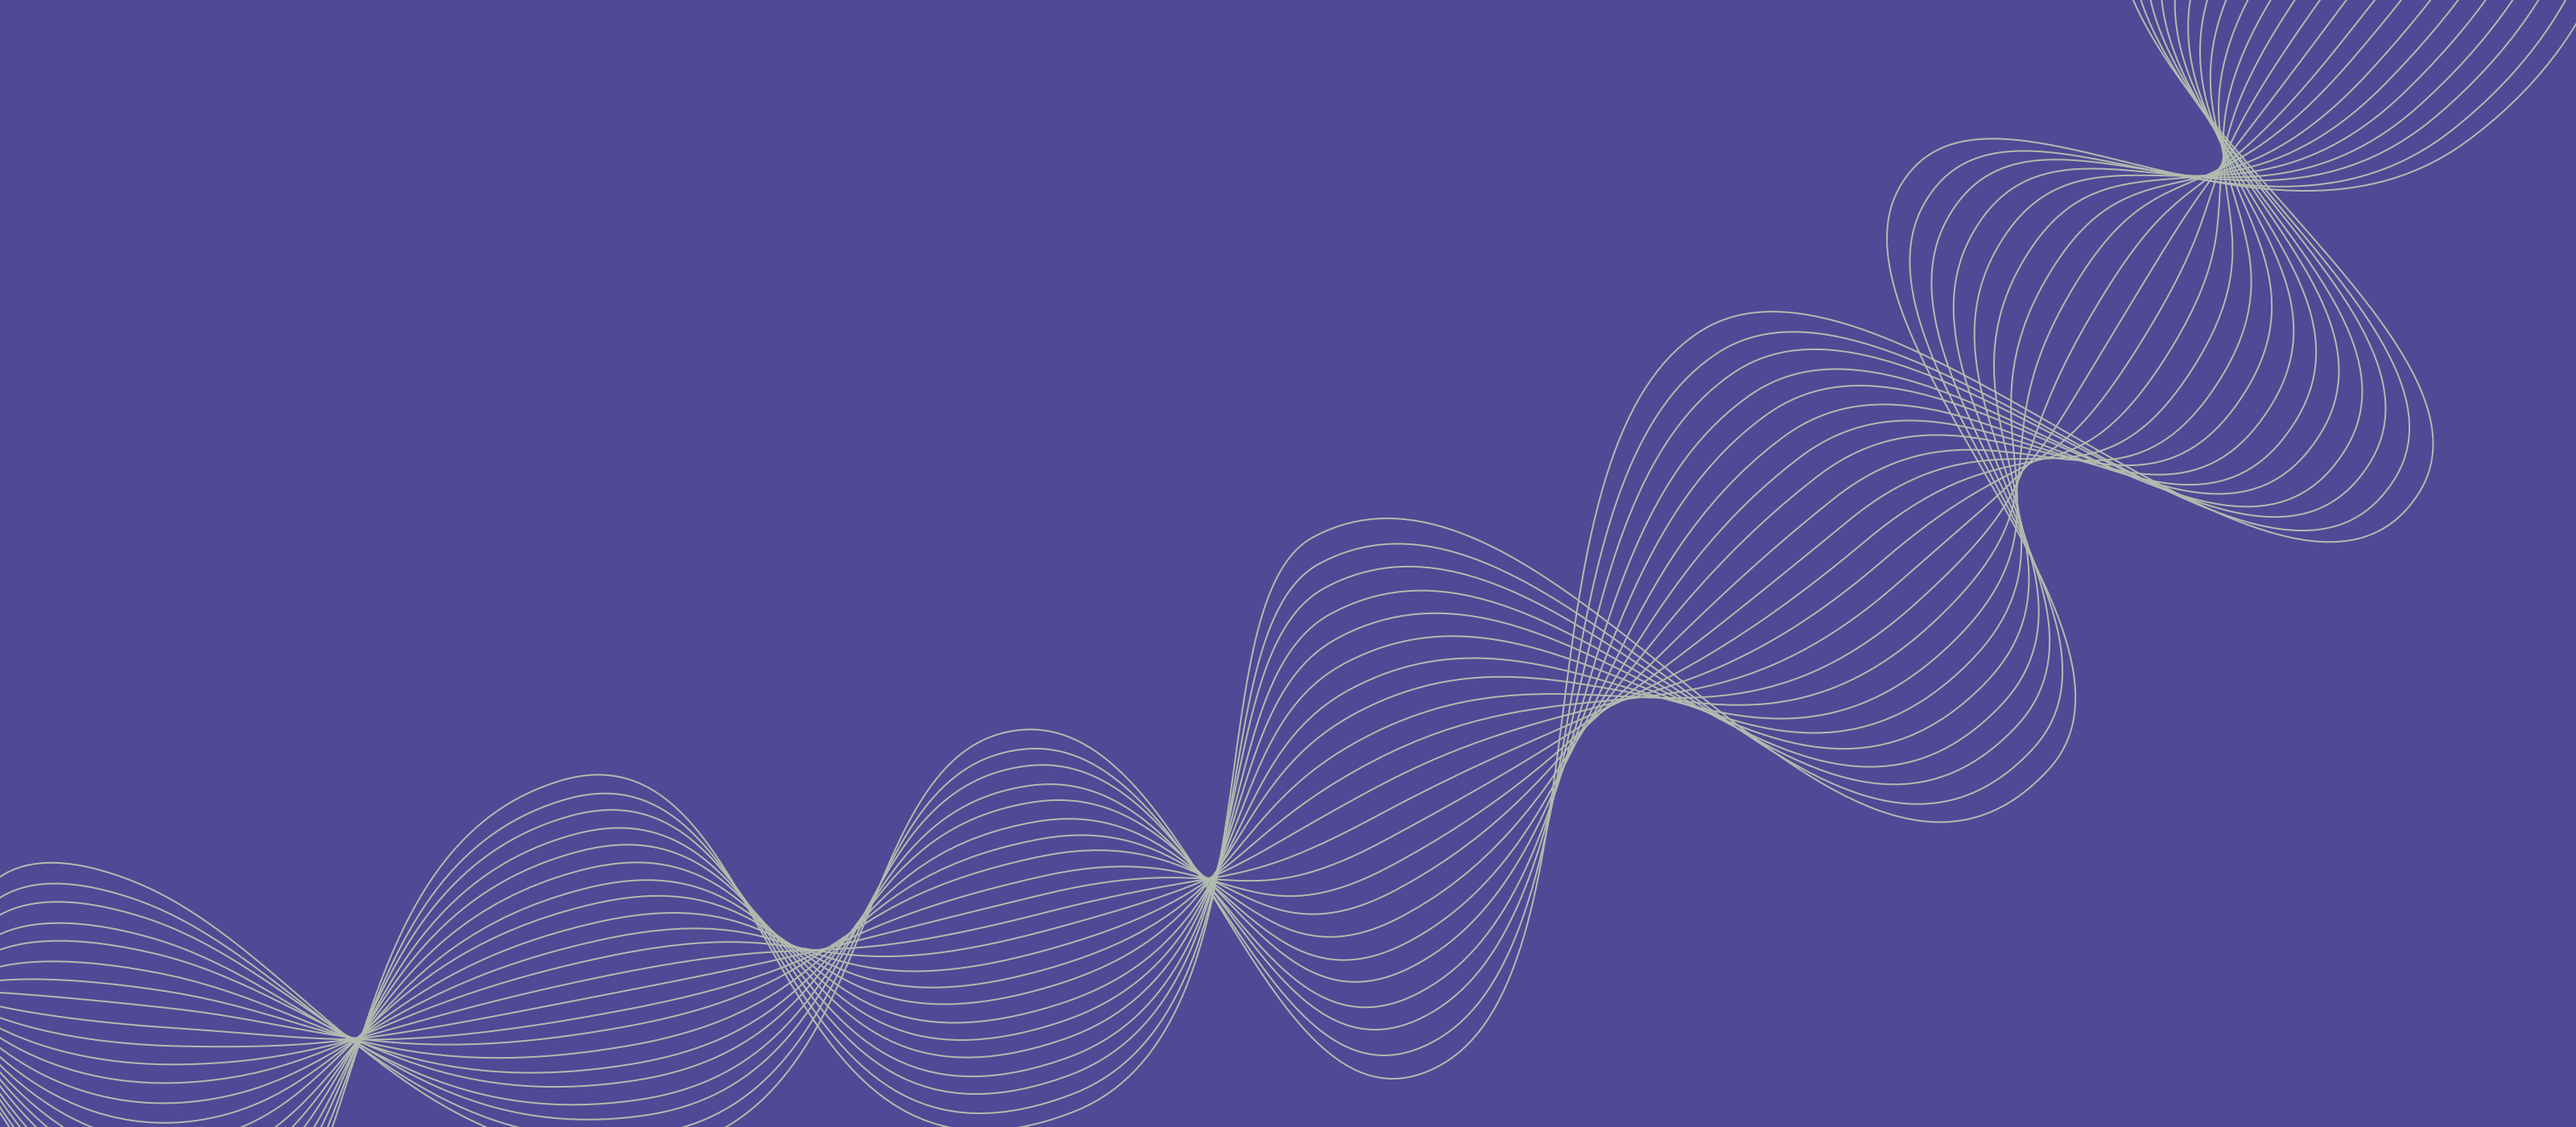
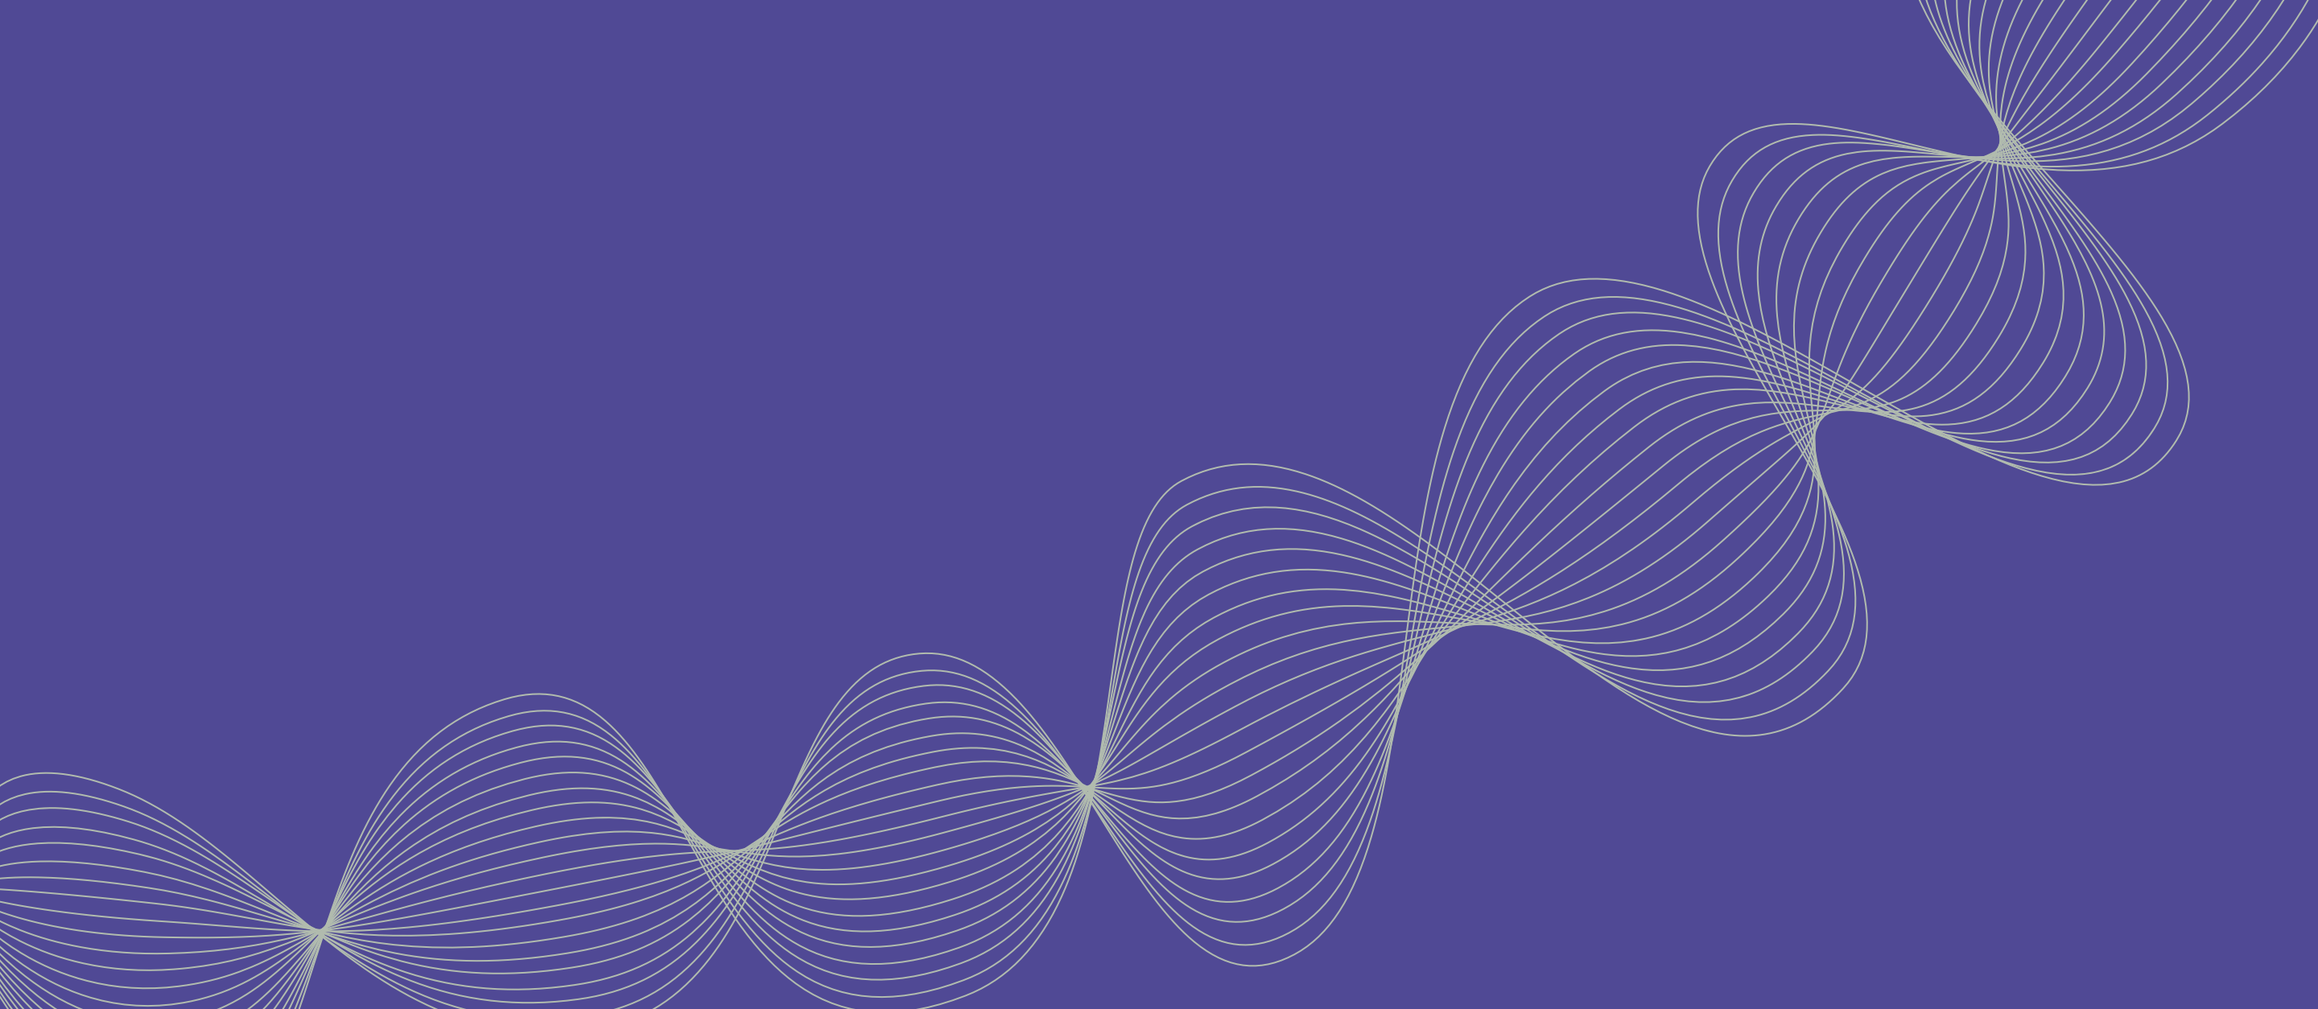
img + ajust sizes

diff --git a/src/index.html b/src/index.html
@@ -9,55 +9,63 @@
   </head>
   <body>
     <header>
-      <div class="container">
-        <div class="row">
-          <div class="col-lg-12">
-            <div class="nav">
-              <div class="align-left">
-                <div class="burger">
-                  <img src="img/burger-close.svg" alt="menu" />
+      <div class="nav-fixed">
+        <div class="bg-nav">
+          <div class="container">
+            <div class="row">
+              <div class="col-lg-12">
+                <div class="nav">
+                  <div class="align-left">
+                    <div class="burger">
+                      <img src="img/burger-close.svg" alt="menu" />
+                    </div>
+                    <img
+                      class="logo"
+                      src="img/eikonica.svg"
+                      alt="logo d'Eikonica"
+                    />
+                    <p class="name">
+                      Festival des Arts <br />
+                      Numeriques — 1e edition
+                    </p>
+                  </div>
+                  <div class="align-right">
+                    <p class="date">
+                      13 — 15 <br />
+                      Octobre
+                    </p>
+                    <p class="place">
+                      2023 <br />
+                      Fribourg
+                    </p>
+                    <p class="language">Fr | De</p>
+                  </div>
                 </div>
-                <img
-                  class="logo"
-                  src="img/eikonica.svg"
-                  alt="logo d'Eikonica"
-                />
-                <p class="name">
-                  Festival des Arts <br />
-                  Numeriques — 1e edition
-                </p>
-              </div>
-              <div class="align-right">
-                <p class="date">
-                  13 — 15 <br />
-                  Octobre
-                </p>
-                <p class="place">
-                  2023 <br />
-                  Fribourg
-                </p>
-                <p class="language">Fr | De</p>
               </div>
             </div>
           </div>
+        </div>
+        <nav class="menu">
+          <ul>
+            <li><a href="#">Programme</a></li>
+            <li><div class="line"></div></li>
+            <li><a href="#">Expositions</a></li>
+            <li><div class="line"></div></li>
+            <li><a href="#">Infos Pratiques</a></li>
+            <li><div class="line"></div></li>
+            <li><a href="#">Partenaires</a></li>
+            <li><div class="line"></div></li>
+            <li><a href="#">Contact</a></li>
+          </ul>
+        </nav>
+      </div>
+      <div class="container">
+        <div class="row">
           <div class="col-lg-12">
             <img class="header-title" src="img/header-title.png" alt="titre" />
           </div>
         </div>
       </div>
-      <nav class="menu">
-        <ul>
-          <li><a href="#">Programme</a></li>
-          <li><div class="line"></div></li>
-          <li><a href="#">Expositions</a></li>
-          <li><div class="line"></div></li>
-          <li><a href="#">Infos Pratiques</a></li>
-          <li><div class="line"></div></li>
-          <li><a href="#">Partenaires</a></li>
-          <li><div class="line"></div></li>
-          <li><a href="#">Contact</a></li>
-        </ul>
-      </nav>
     </header>
     <main>
       <div class="l-presentation">
@@ -87,7 +95,9 @@
           <div class="row">
             <div class="col-lg-5">
               <h2>Programme <br />du Festival</h2>
-              <p>Concerts, conférences et bien plus !</p>
+              <p class="infos-programme">
+                Concerts, conférences et bien plus !
+              </p>
               <div class="button-green">
                 <a>Voir tout</a>
               </div>
@@ -112,9 +122,11 @@
         <div class="container">
           <div class="row">
             <div class="col-lg-12">
-              <h1>Réservez vos <br />places en avance</h1>
-              <div class="button-purple">
-                <a>Réserver <br />maintenant</a>
+              <div class="reserve">
+                <h1>Réservez vos <br />places en avance</h1>
+                <div class="button-purple">
+                  <a>Réserver <br />maintenant</a>
+                </div>
               </div>
             </div>
           </div>

diff --git a/src/scss/modules/_artistes.scss b/src/scss/modules/_artistes.scss
@@ -11,7 +11,7 @@
   letter-spacing: -0.94px;
   line-height: 44px;
   text-transform: uppercase;
-  padding: 180 0 30;
+  padding: 110 0 30;
 }
 
 .l-artistes p {
@@ -21,11 +21,11 @@
   font-size: 20px;
   letter-spacing: -0.51px;
   line-height: 19px;
-  padding-bottom: 85;
+  padding-bottom: 70;
 }
 
 .l-artistes .windows {
-  padding: 180 0 0;
+  padding: 110 0 0;
 }
 
 .l-artistes .button-green {
@@ -40,7 +40,7 @@
   border-radius: 14;
   display: inline-block;
   padding: 15px 65px;
-  margin-bottom: 380px;
+  margin-bottom: 235px;
   transition: all 0.3s ease;
 }
 .l-artistes .button-green:hover {
@@ -55,6 +55,7 @@
   align-items: center;
   justify-content: space-between;
   position: relative;
+  align-items: center;
 }
 
 .windows img {
@@ -98,6 +99,7 @@
 .artist-photo-2,
 .artist-photo-3 {
   position: relative;
+  transition: all 0.3s ease;
 }
 
 .artist-photo-1:hover {

diff --git a/src/scss/_layout.scss b/src/scss/_layout.scss
@@ -1,15 +1,20 @@
+.nav-fixed {
+  position: fixed;
+  top: 0;
+  width: 100%;
+  z-index: 1;
+}
+
 .l-presentation {
   background-image: url(../img/presentation-bg.png);
   background-size: 100%;
   background-repeat: no-repeat;
-  min-height: 800px;
 }
 
 .l-programme {
   background-image: url(../img/programme-bg.png);
   background-size: 100%;
   background-repeat: no-repeat;
-  min-height: 800px;
 }
 
 .l-call-to-action {
@@ -26,7 +31,6 @@
   background-image: url(../img/artistes-bg.png);
   background-size: 100%;
   background-repeat: no-repeat;
-  min-height: 800px;
 }
 
 .l-expositions {

diff --git a/src/scss/modules/_header.scss b/src/scss/modules/_header.scss
@@ -37,18 +37,17 @@
   padding: 10px 0px;
   background: var(--dark-grey);
   text-align: left;
-  opacity: 0;
+  display: none;
   transition: opacity 0.4s;
   position: absolute;
   top: 130;
   left: 0;
-  display: inline-block;
   min-width: 100%;
   text-align: center;
 }
 
 .menu.is-open {
-  opacity: 1;
+  display: inline-block;
 }
 
 header a {
@@ -104,5 +103,10 @@ header li {
 }
 
 .header-title {
-  padding-bottom: 150px;
+  padding: 140px 0 150px;
+}
+
+.bg-nav {
+  height: 130px;
+  background: var(--light-grey);
 }

diff --git a/src/scss/modules/_newsletter.scss b/src/scss/modules/_newsletter.scss
@@ -2,12 +2,12 @@
   font-family: "changeling-neo-stencil", sans-serif;
   font-weight: 700;
   font-style: normal;
-  font-size: 60px;
+  font-size: 50px;
   color: var(--green);
   letter-spacing: -1.23px;
   text-align: center;
   text-transform: uppercase;
-  padding: 110 0 130;
+  padding: 90 0 100;
 }
 
 .l-newsletter p {
@@ -34,5 +34,5 @@
   margin: 0 300px;
   padding-bottom: 13px;
   border-bottom: solid 1px var(--white);
-  margin-bottom: 150px;
+  margin-bottom: 80px;
 }

diff --git a/src/scss/modules/_programme.scss b/src/scss/modules/_programme.scss
@@ -11,10 +11,10 @@
   letter-spacing: -0.94px;
   line-height: 44px;
   text-transform: uppercase;
-  padding: 200 0 30;
+  padding: 150 0 30;
 }
 
-.l-programme p {
+.infos-programme {
   font-family: "roc-grotesk", sans-serif;
   font-weight: 400;
   font-style: normal;
@@ -40,7 +40,7 @@
   border-radius: 14;
   display: inline-block;
   padding: 15px 65px;
-  margin-bottom: 200px;
+  margin-bottom: 175px;
   transition: all 0.3s ease;
 }
 

diff --git a/src/scss/modules/_call-to-action.scss b/src/scss/modules/_call-to-action.scss
@@ -10,7 +10,7 @@
   font-size: 50px;
   letter-spacing: 2.69px;
   line-height: 40px;
-  padding: 60 0 40;
+  padding: 40 0;
 }
 
 .l-call-to-action .button-purple {
@@ -25,7 +25,7 @@
   border-radius: 14;
   display: inline-block;
   padding: 15px 65px;
-  margin-bottom: 55px;
+  margin-bottom: 40px;
   transition: all 0.3s ease;
 }
 

diff --git a/src/scss/modules/_presentation.scss b/src/scss/modules/_presentation.scss
@@ -34,7 +34,7 @@
   border-radius: 14;
   display: inline-block;
   padding: 15px 65px;
-  margin-bottom: 170px;
+  margin-bottom: 145px;
   transition: all 0.3s ease;
 }
 
@@ -54,5 +54,5 @@
   text-align: center;
   line-height: 71px;
   margin-top: 700px;
-  padding-bottom: 60px;
+  padding-bottom: 15px;
 }
